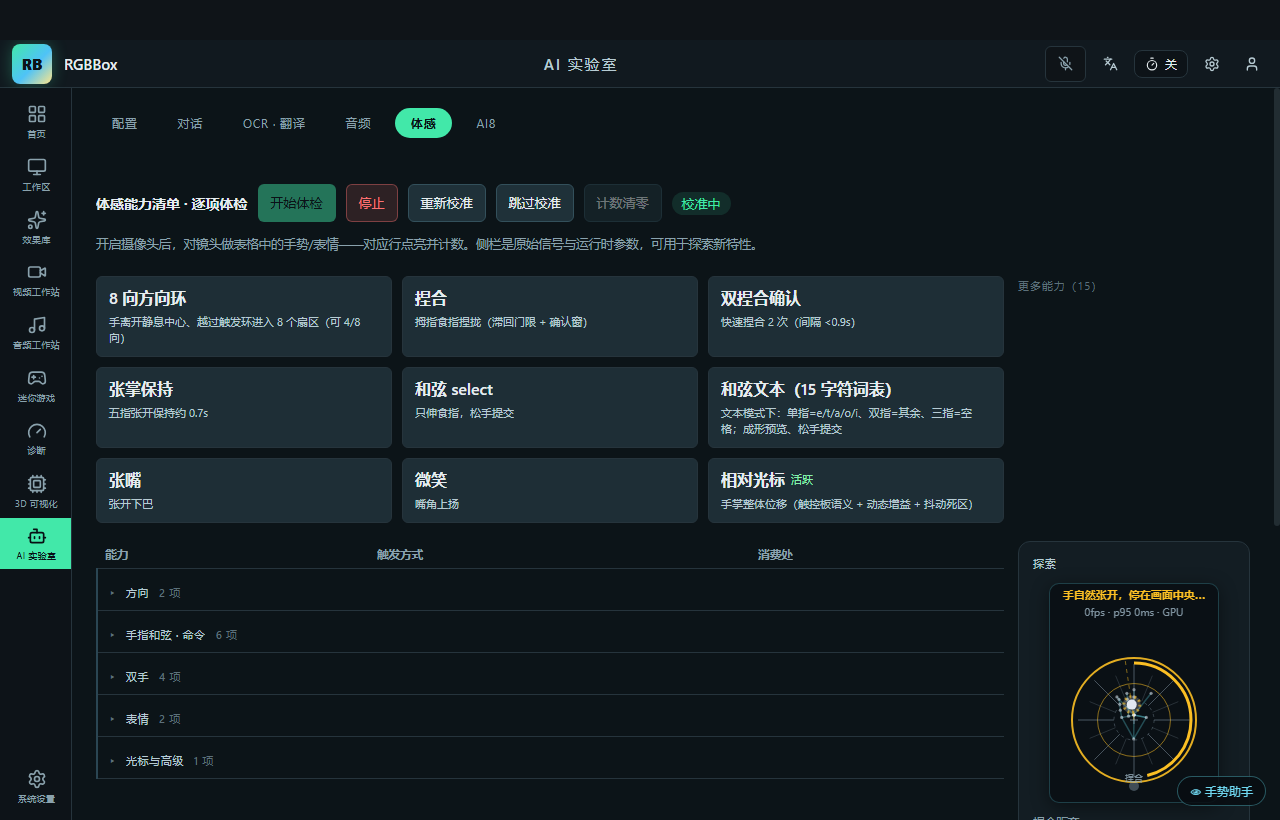
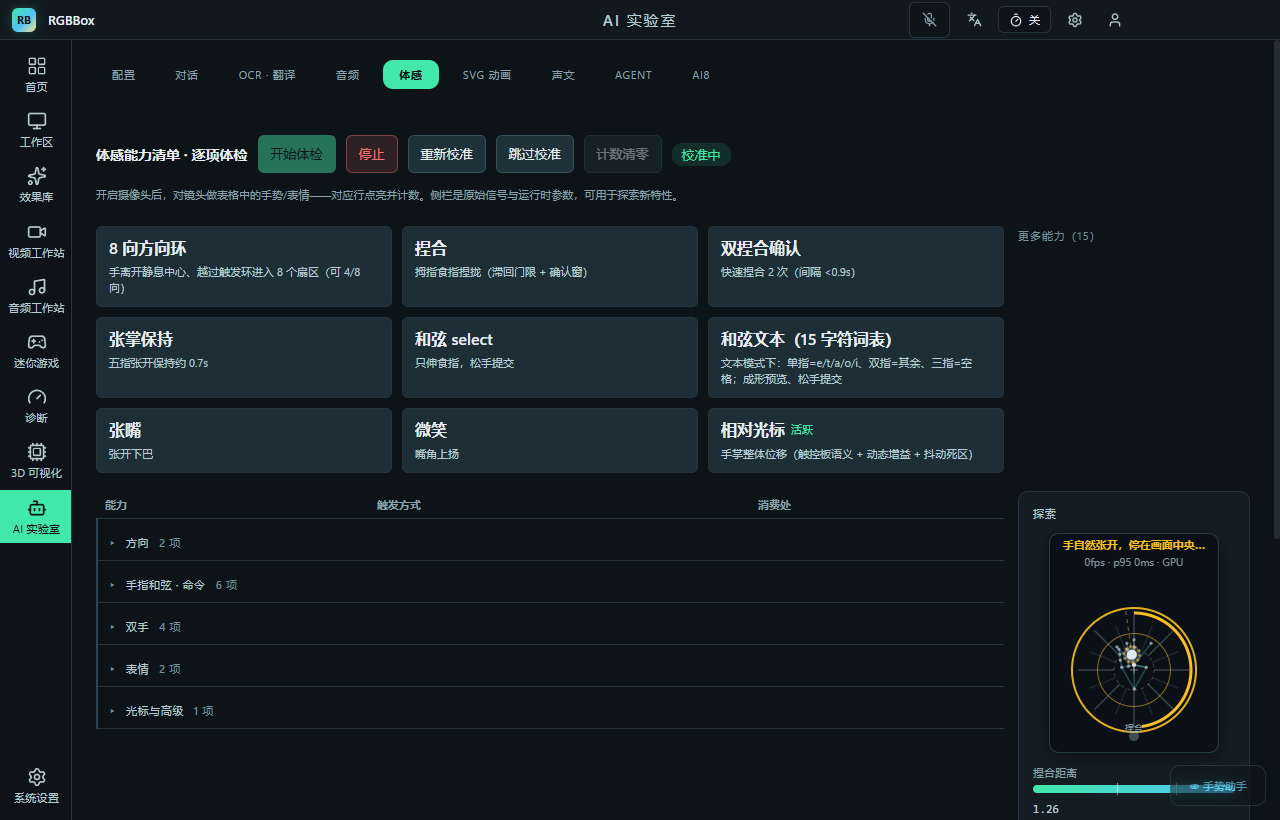
[PRD-0002] fix: R305 体感台只有握拳能测——会话卡校准全静默+表情行永不可测
根因：①体检台 enable() 必重跑三步向导且无显眼指引，事件类能力只在
active 态产生（截图芯片=校准中，仅两条快照驱动行有计数）；②hook 硬编
码 faceModel=null（R249.2），体检台表情 4 行任何状态都点不亮；③宿主
capture 精度切换把 active 会话打回 searching 重跑向导。

修复：体检台启动即跳过向导（enable({face:true})+resumeActive，游戏/助
手向导流程零改动）；hook 增补 VisionEnableOpts，宿主重复 init 时 face
消费方原地升级 faceless 会话（单向不降级）；capture 切换保 active
（R133.4 原则推广）。E2E 脚本陈旧「6 tab」断言自纠为 9。

证据：4 用例先红后绿（定向 3 文件 54 passed）；typecheck 双绿；全量
201 files / 1854 passed / 0 失败；R144.7 E2E 27/27 PASS。

diff --git a/src/renderer/src/hooks/useVisionInput.ts b/src/renderer/src/hooks/useVisionInput.ts
@@ -14,6 +14,14 @@ import { classifyVisionError, type VisionErrorKind } from '../domain/visionError
 
 export type VisionState = 'idle' | 'searching' | 'calibrating' | 'active' | 'paused'
 export type VisionSensitivity = 'standard' | 'fast' | 'sport'
+/**
+ * R305: camera-enable options. `face` loads the face landmarker so
+ * expression capabilities are testable — only the AI Lab bench passes it
+ * today; games/assistant stay faceless (the R249.2 inference budget).
+ */
+export interface VisionEnableOpts {
+  face?: boolean
+}
 
 const PROFILE_KEY = 'vgi-profile-v2'
 const MIRROR_KEY = 'rgbbox:visionMirror'
@@ -92,7 +100,7 @@ function translateEngineText(text: string, t: TFn): string {
 }
 
 export interface VisionInputHandle {
-  enable(): Promise<void>
+  enable(opts?: VisionEnableOpts): Promise<void>
   /** Camera-free variant for tests/E2E — synthetic landmarks, identical pipeline. */
   enableSynthetic(): Promise<void>
   disable(): void
@@ -280,7 +288,7 @@ export function useVisionInput(): VisionInputHandle {
     }
   }, [])
 
-  const start = useCallback(async (mode: 'camera' | 'synthetic') => {
+  const start = useCallback(async (mode: 'camera' | 'synthetic', opts?: VisionEnableOpts) => {
     if (channelRef.current) return
     setError(null) // R230: a new attempt clears the previous failure
     setErrorKind(null) // R239
@@ -323,7 +331,8 @@ export function useVisionInput(): VisionInputHandle {
             // R249.2 (03-B9): games/assistant paths have ZERO face consumers —
             // sending faceModel made the host run FaceLandmarker every 3rd
             // frame (+34.6ms GPU) for nobody. null = faceless pipeline.
-            faceModel: null,
+            // R305: the bench opts in (its face rows are try-it-now cards).
+            faceModel: opts?.face ? new URL('models/face_landmarker.task', base).href : null,
             numHands: 2,
             // R142-L1: 60fps full-frame capture — MJPG at 640×480 is standard
             // webcam fare; the host pipeline (its own renderer process)
@@ -418,7 +427,7 @@ export function useVisionInput(): VisionInputHandle {
     return tracked
   }, [mirror, onEvent, onSnapshot, sensitivity])
 
-  const enable = useCallback(() => start('camera'), [start])
+  const enable = useCallback((opts?: VisionEnableOpts) => start('camera', opts), [start])
   const enableSynthetic = useCallback(() => start('synthetic'), [start])
 
   const disable = useCallback(() => {

diff --git a/src/renderer/src/vision/hostMessenger.js b/src/renderer/src/vision/hostMessenger.js
@@ -161,6 +161,18 @@ export function createHostMessenger(deps) {
     if (pipeline) {
       // R228: already running — the second consumer's init MUST get a ready
       // (swallowing it left enable() awaiting a reply that never came).
+      // R305: a FACE-requesting consumer joining a FACELESS session upgrades
+      // it in place (the AI Lab bench's face rows are try-it-now cards, they
+      // must light whenever the bench starts — even when a faceless games
+      // session created the host first). One-way: a faceless joiner never
+      // downgrades. A failed upgrade keeps the session alive (face rows stay
+      // dark) — it must not kill the host for the other consumers.
+      if (msg.cfg?.faceModel && !pipeline.face) {
+        try {
+          await pipeline.reloadLandmarkers({ ...msg.cfg })
+          lastCfg = { ...lastCfg, ...msg.cfg }
+        } catch { /* best-effort upgrade — the session survives without face */ }
+      }
       post({ type: 'ready', delegate: pipeline.delegate })
       return
     }
@@ -248,9 +260,16 @@ export function createHostMessenger(deps) {
           // R141-B: precision mode switch — restart the stream with new constraints
           if (!msg.synthetic && video != null) {
             const prevMode = cameraMode
+            // R305: the stream rebuild re-runs session.start() (→ searching,
+            // full wizard again). An ACTIVE session is forceReady'd back with
+            // its own profile once the new stream is up (R133.4's "never
+            // re-calibrate for a transport change" principle, extended to
+            // capture switches); calibrating/searching keep the old behavior.
+            const wasActive = pipeline.session?.state === 'active'
             try {
               fullTeardown()
               await openCamera(msg.camera)
+              if (wasActive) pipeline.forceReady(pipeline.session.profile)
             } catch (err) {
               cameraMode = prevMode // a failed switch must not poison the next restart
               throw err

diff --git a/tests/renderer/components/AiLabVisionTab.test.tsx b/tests/renderer/components/AiLabVisionTab.test.tsx
@@ -185,6 +185,24 @@ describe('AiLabVisionTab (R144)', () => {
     expect(countOf(row(c2, 'chord-select'))).toBe('')
   })
 
+  it('R305: start skips the wizard — enable({face:true}) then resumeActive, in order; synthetic seam stays untouched', async () => {
+    const { container } = render(<AiLabVisionTab />)
+    fireEvent.click(container.querySelector('[data-action="vision-start"]') as HTMLElement)
+    await waitFor(() => expect(h.vision.enable).toHaveBeenCalledWith({ face: true }))
+    await waitFor(() => expect(h.vision.resumeActive).toHaveBeenCalledTimes(1))
+    // enable resolves BEFORE resumeActive fires (order matters: forceReady on a live session)
+    expect(h.vision.enable.mock.invocationCallOrder[0]).toBeLessThan(h.vision.resumeActive.mock.invocationCallOrder[0])
+    // a FAILED enable must not resumeActive (camera denied → no silent forceReady)
+    h.vision.enable.mockRejectedValueOnce(new Error('denied'))
+    h.vision.enabled = false
+    cleanup()
+    const c2 = render(<AiLabVisionTab />).container
+    fireEvent.click(c2.querySelector('[data-action="vision-start"]') as HTMLElement)
+    await waitFor(() => expect(h.vision.enable).toHaveBeenCalledTimes(2))
+    await act(async () => { await Promise.resolve() })
+    expect(h.vision.resumeActive).toHaveBeenCalledTimes(1)
+  })
+
   it('live signals: pinch gauge, finger extension, chord preview/buffer, geom-active rows', async () => {
     h.vision.enabled = true
     h.vision.state = 'active'

diff --git a/tests/renderer/hooks/useVisionInput.test.tsx b/tests/renderer/hooks/useVisionInput.test.tsx
@@ -82,6 +82,19 @@ describe('renderer/hooks/useVisionInput (R136 host client)', () => {
     expect(rgbbox.visionHostClose).not.toHaveBeenCalled()
   })
 
+  it('R305: enable({face:true}) ships the face model; the default enable stays faceless (R249.2 default intact)', async () => {
+    const { result } = renderHook(() => useVisionInput())
+    await act(() => result.current.enable({ face: true }))
+    const init = host.received.find((m) => m.type === 'init') as { cfg: Record<string, unknown> }
+    expect(String(init.cfg.faceModel)).toContain('face_landmarker.task')
+    await act(() => result.current.disable())
+    host.received.length = 0
+    await act(() => result.current.enable())
+    const init2 = host.received.find((m) => m.type === 'init') as { cfg: Record<string, unknown> }
+    expect(init2.cfg.faceModel).toBeNull()
+    await act(() => result.current.disable())
+  })
+
   it('host events normalize into held/queue + window bus (keyless events reach the bus only)', async () => {
     const bus = vi.fn()
     window.addEventListener('vision-input', bus)

diff --git a/src/renderer/src/components/AiLabVisionTab.tsx b/src/renderer/src/components/AiLabVisionTab.tsx
@@ -391,7 +391,14 @@ export function AiLabVisionTab(): JSX.Element {
 
   const start = async (): Promise<void> => {
     setBusy(true)
-    try { await vision.enable() } catch { /* camera denied — the state chip tells the story */ } finally { setBusy(false) }
+    try {
+      // R305: the bench is a DIAGNOSTIC tool — skip the 3-step wizard (stored
+      // profile if any, defaults otherwise) so every event-driven row goes
+      // live the moment the camera does; 重新校准 re-enters the wizard. Face
+      // on: the bench's face rows (张嘴/微笑 board cards) are try-it-now.
+      await vision.enable({ face: true })
+      vision.resumeActive()
+    } catch { /* camera denied — the state chip tells the story */ } finally { setBusy(false) }
   }
 
   // R144.7 E2E seam (games __rgbboxVision precedent): packaged-app
